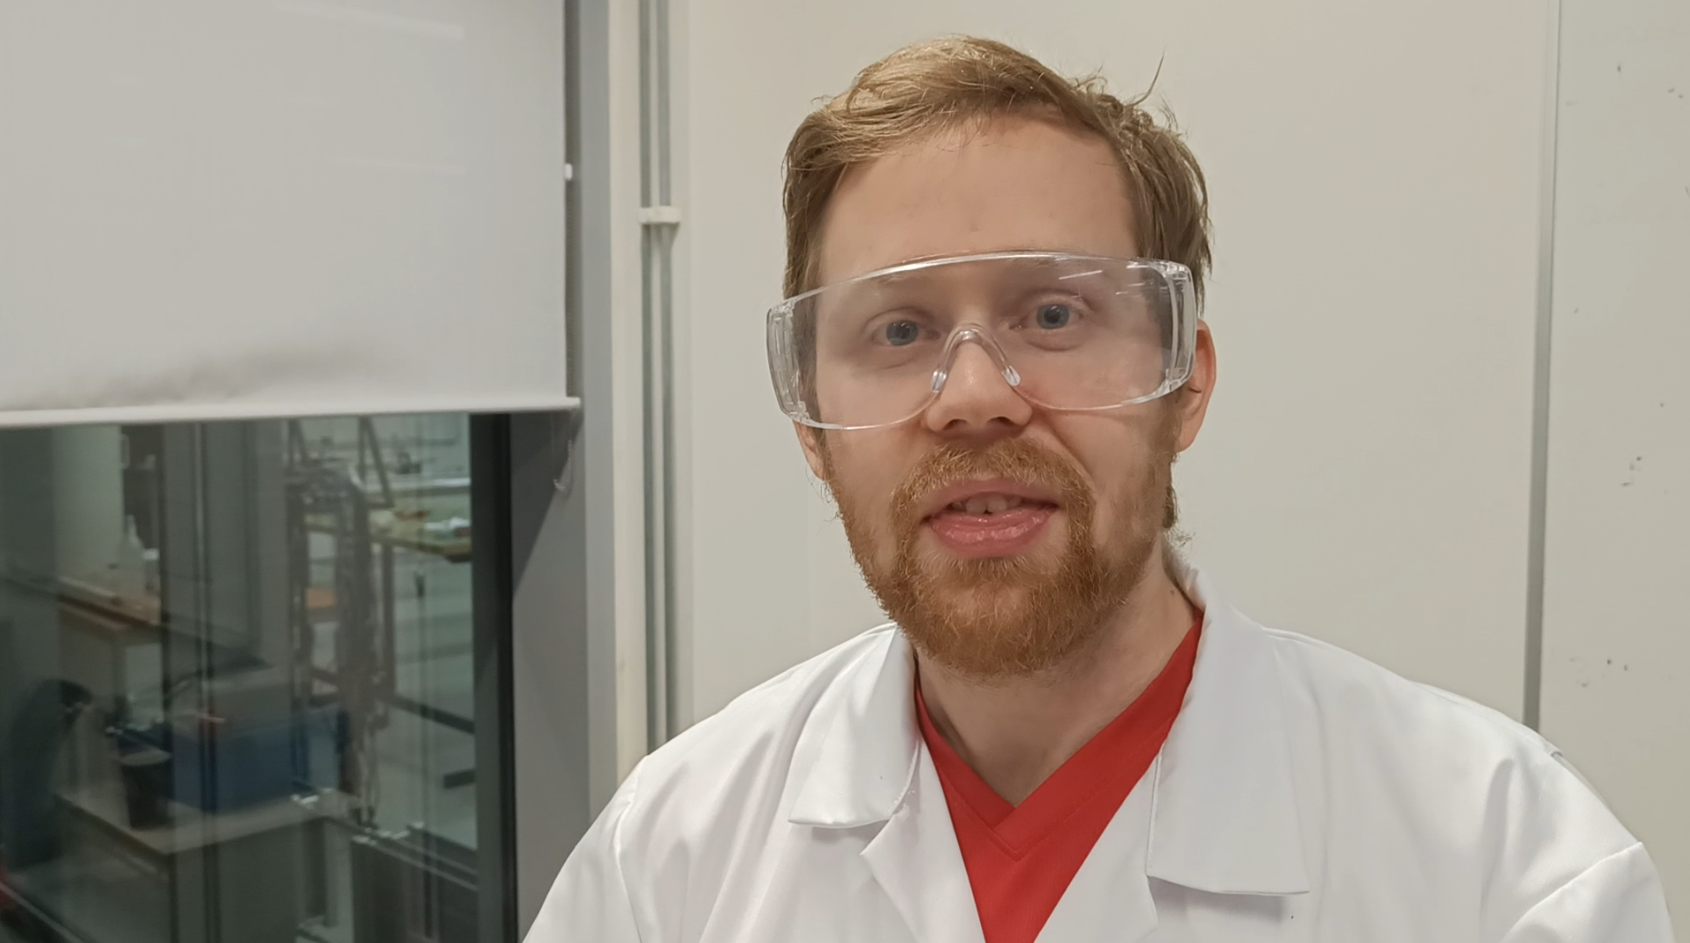
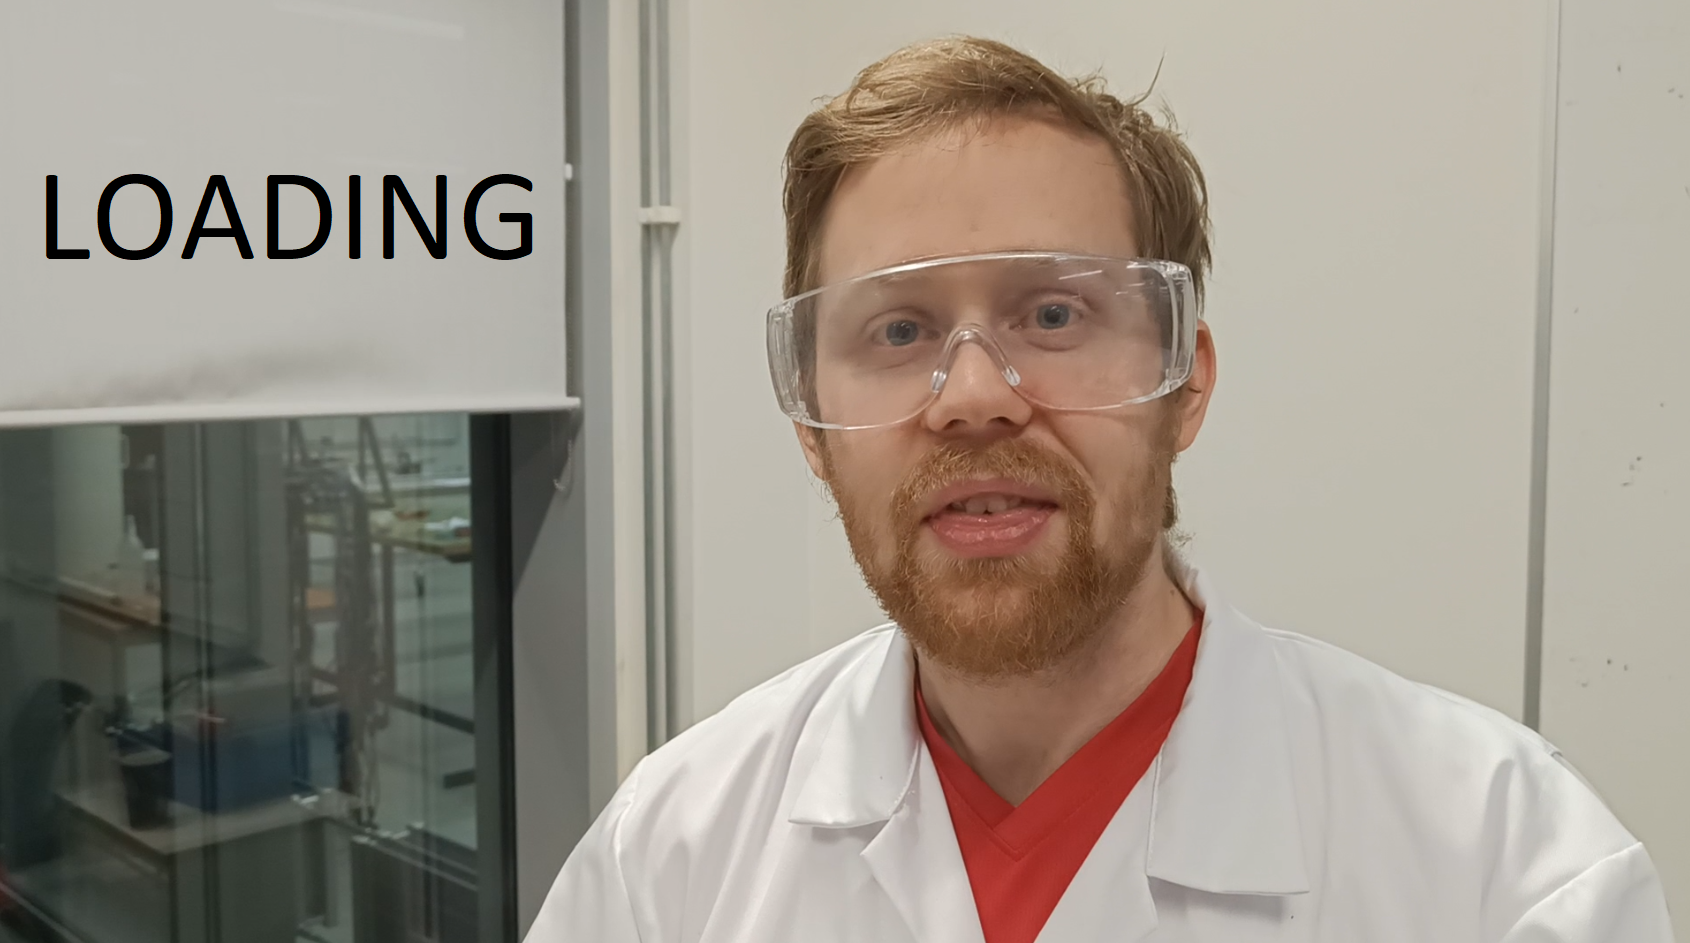
g

Changed region(s): [[0.0, 0.1845, 0.3385, 0.2768]]

diff --git a/SP.PID V2.0/NEWGUI.py b/SP.PID V2.0/NEWGUI.py
@@ -142,9 +142,9 @@ splash.wm_attributes("-topmost", True)
 rammi = Frame(splash, width=1024, height= 600)
 rammi.pack()
 rammi.place(anchor= 'center', relx= 0.5, rely= 0.5)
-splash_label = Label(splash, text= "LOADING", font= ("helvetica", 20))
-splash_label.pack(anchor= 'w',pady=290, padx = 250)
-
+#splash_label = Label(splash, text= "LOADING", font= ("helvetica", 20),bg= '#ab23ff')
+#splash_label.pack(anchor= 'w',pady=290, padx = 250)
+splash.wm_attributes('-transparentcolor','#ab23ff')
 
 img= ImageTk.PhotoImage(Image.open("Loading.png"))
 rammi = Label(rammi, image= img)
